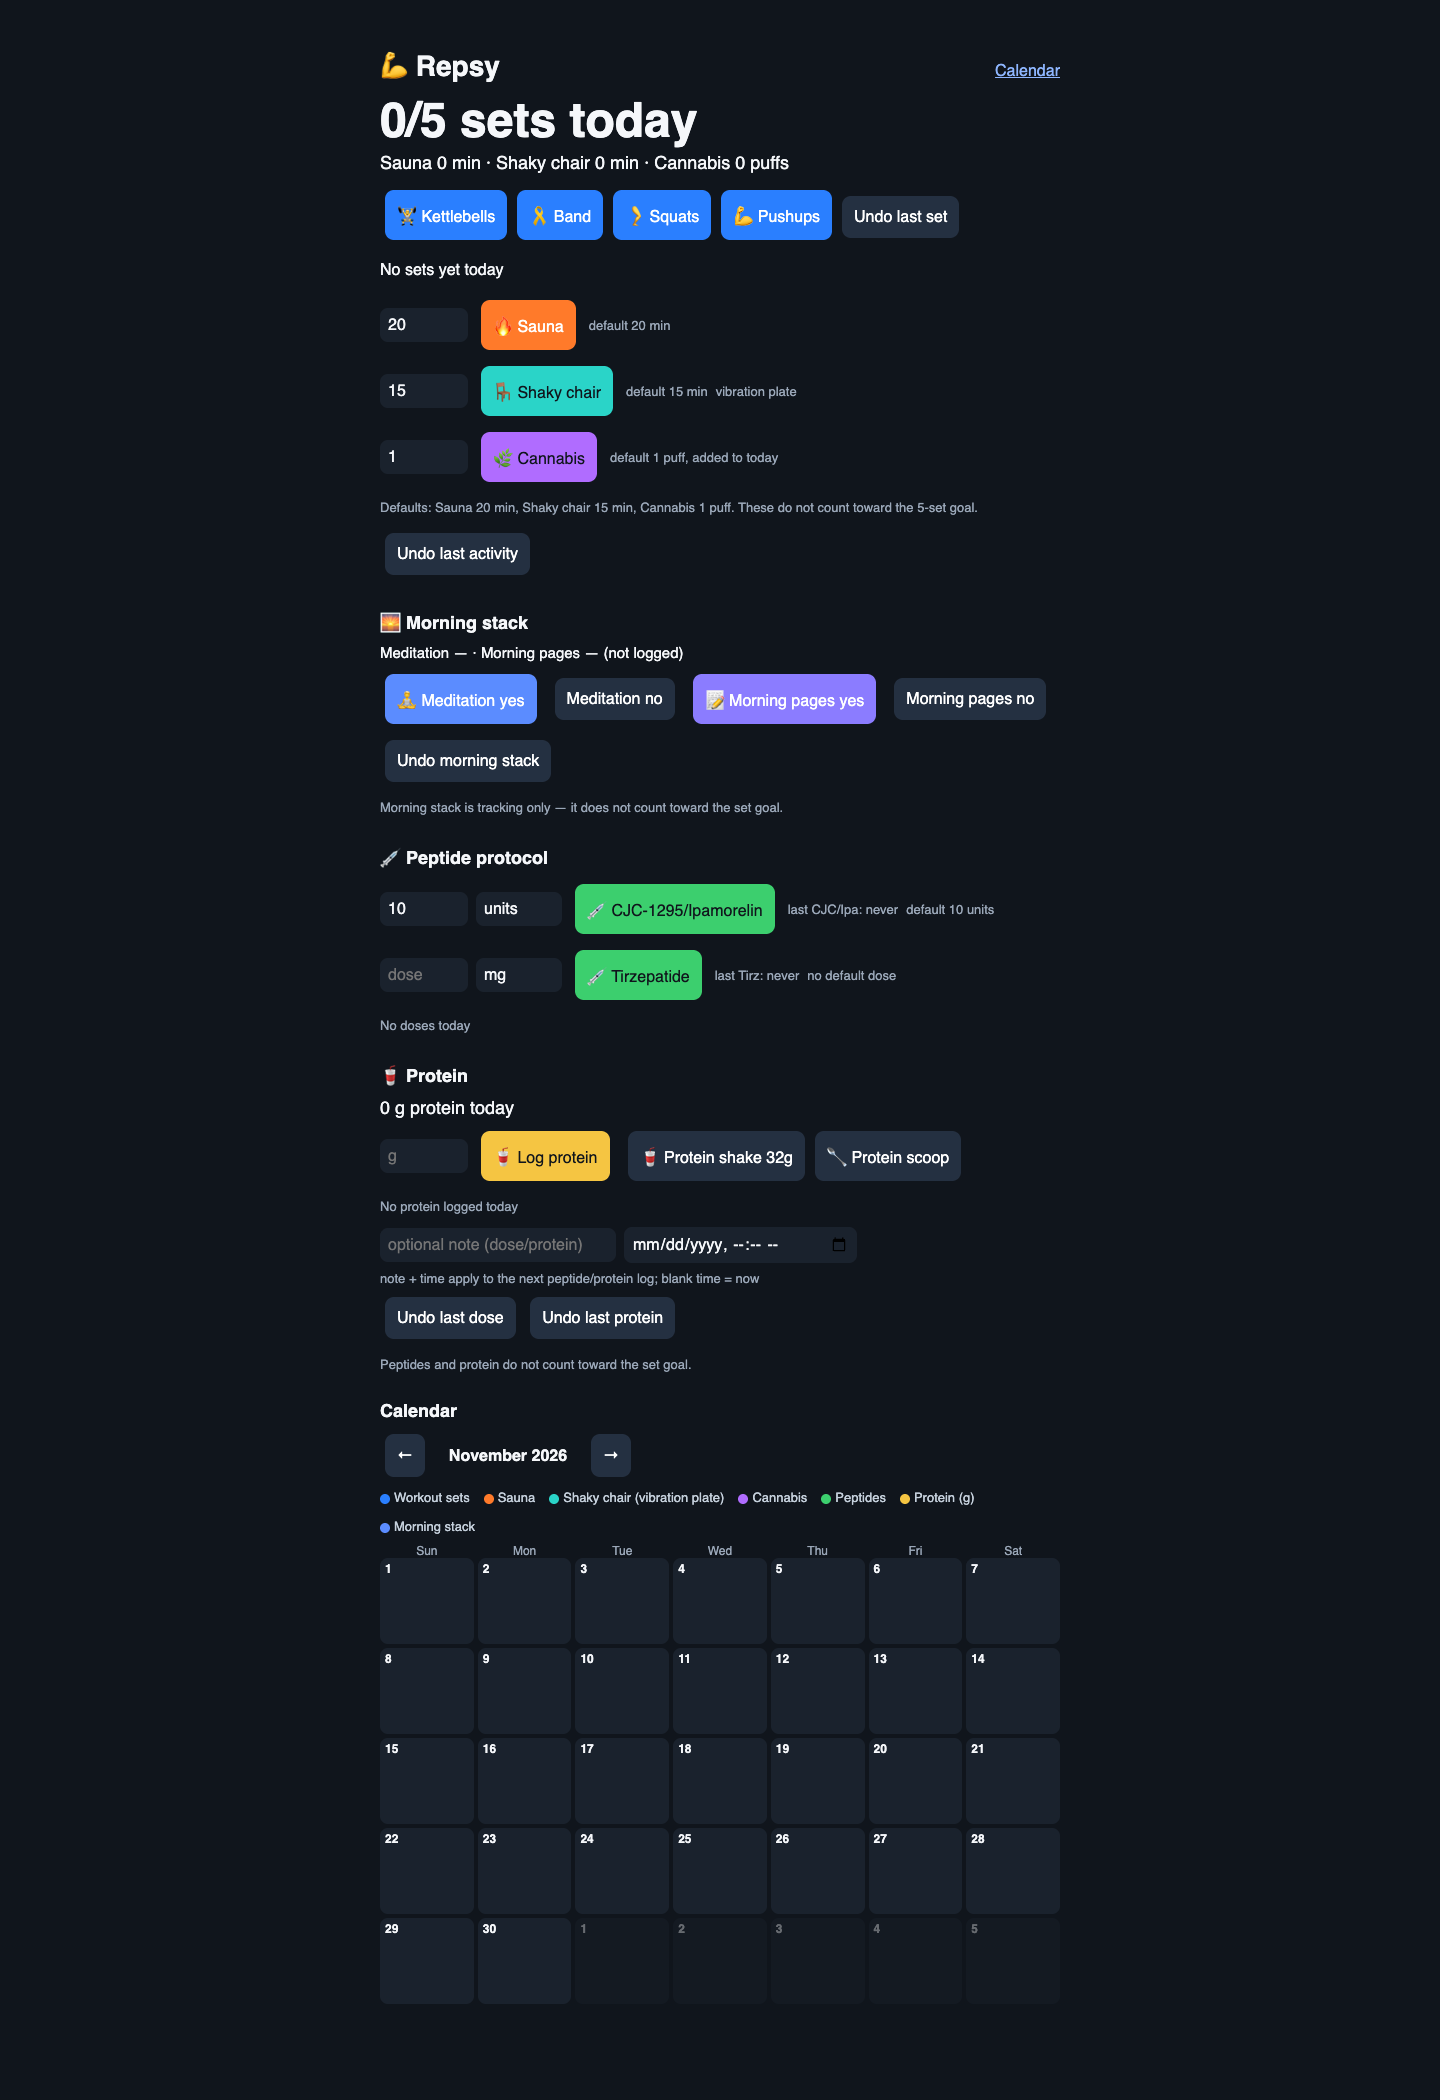
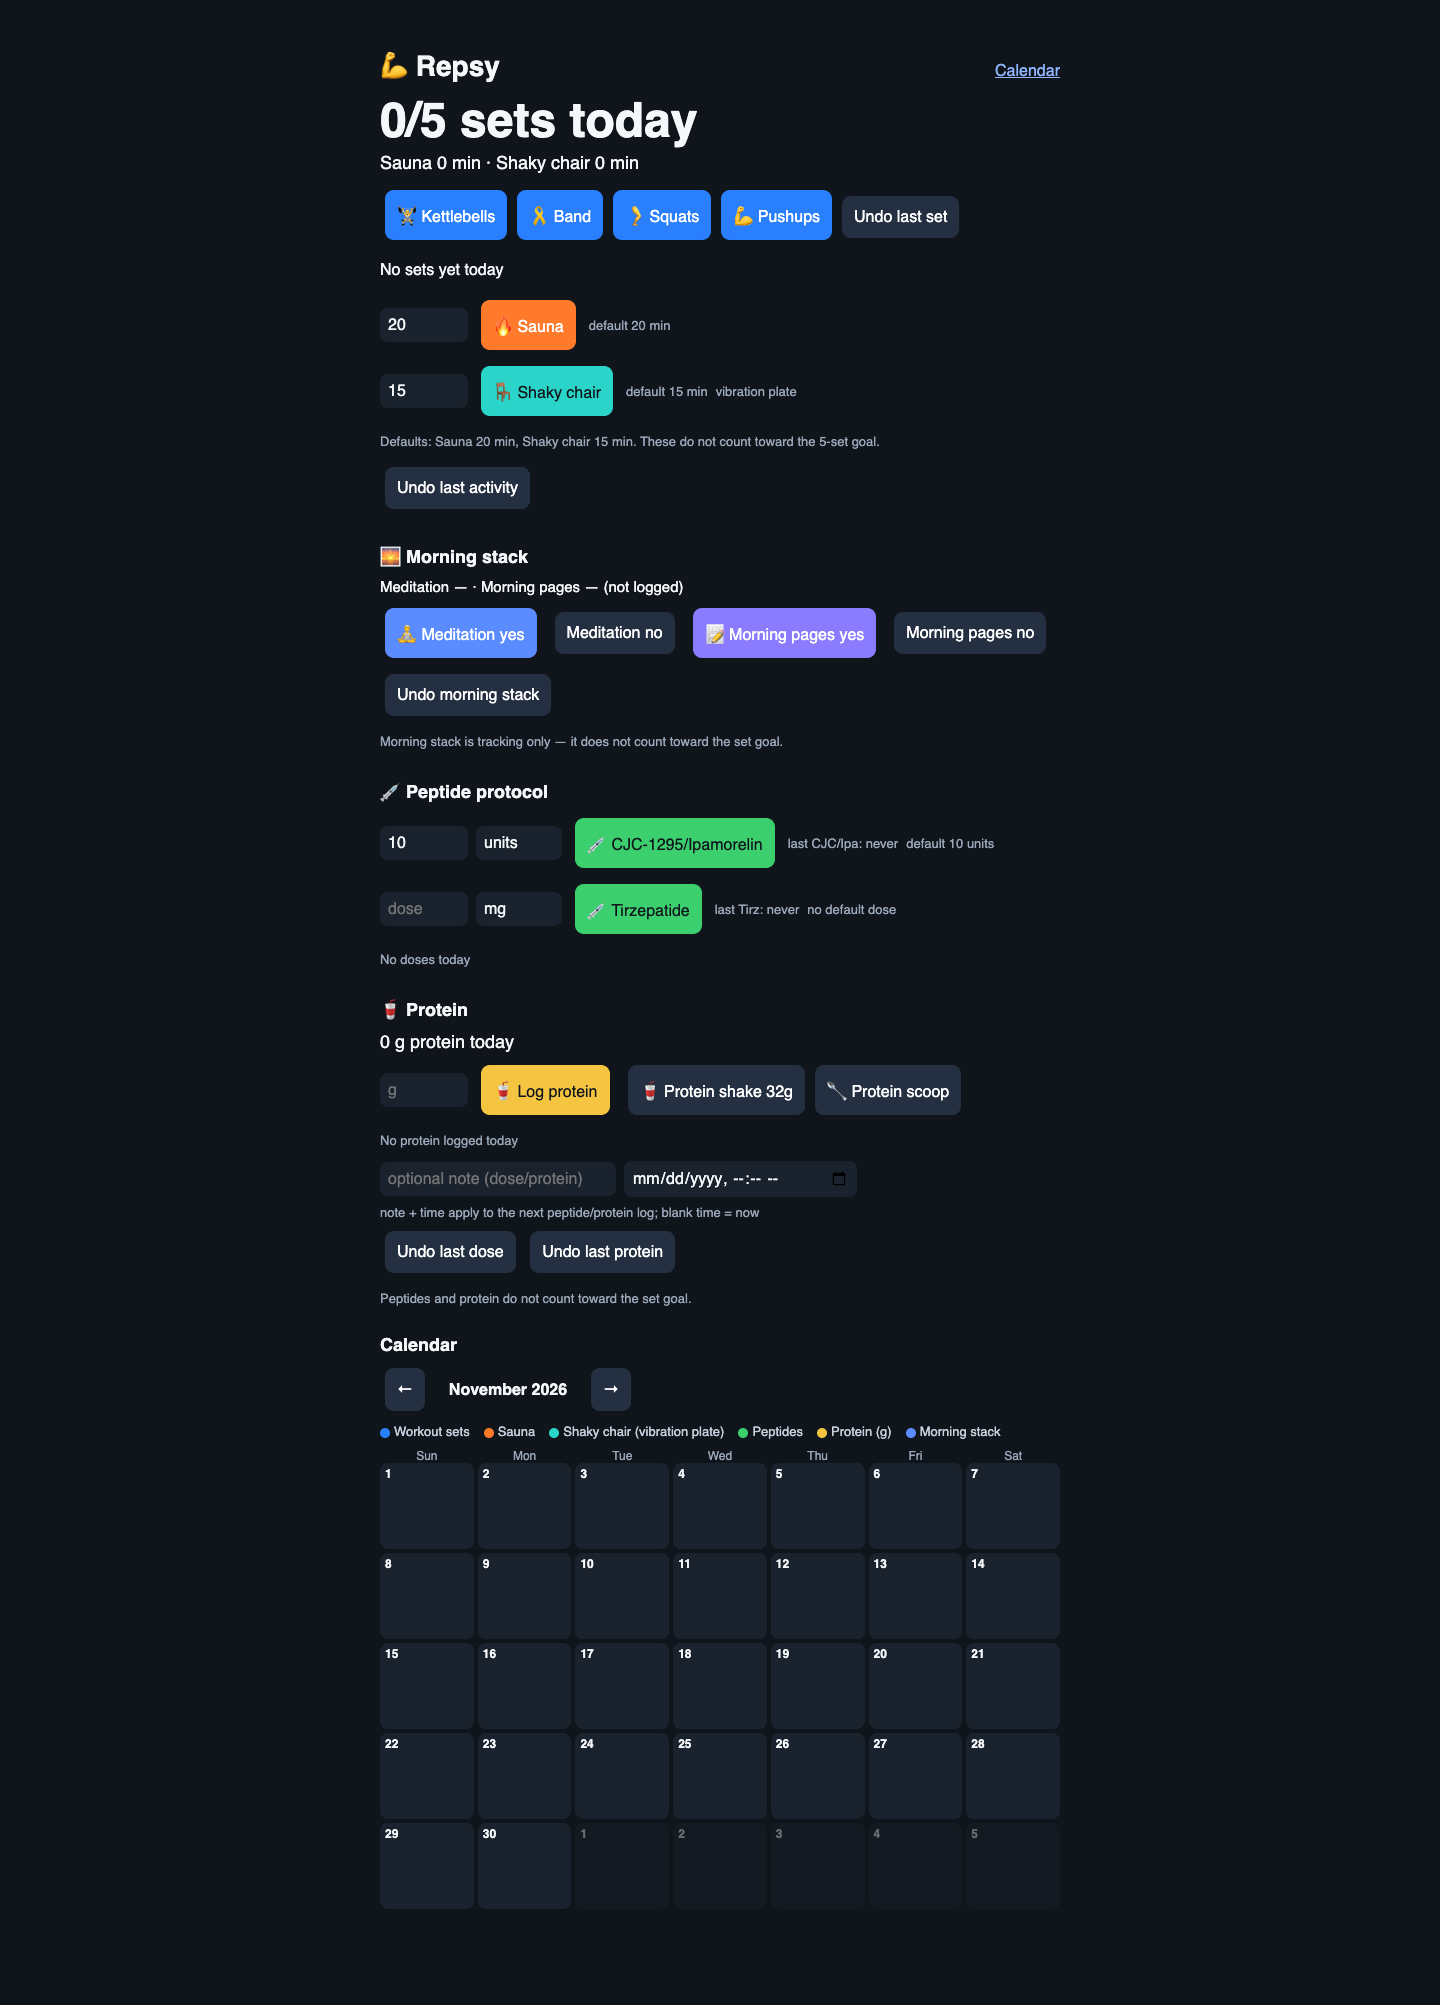
fix: remove cannabis tracking

diff --git a/templates/dashboard.html b/templates/dashboard.html
@@ -38,7 +38,7 @@ button.stack-on{outline:2px solid #f5f7fa;outline-offset:1px}
 </style>
 <div class="top"><h1>💪 Repsy</h1><a href="/calendar">Calendar</a></div>
 <div id="count">Loading…</div>
-<p id="today-activities">Sauna — · Shaky chair — · Cannabis —</p>
+<p id="today-activities">Sauna — · Shaky chair —</p>
 <div id="buttons"></div>
 <p id="history"></p>
 <div id="activity-buttons">
@@ -53,13 +53,8 @@ button.stack-on{outline:2px solid #f5f7fa;outline-offset:1px}
     <span class="hint" id="shaky-default">default 15 min</span>
     <span class="hint">vibration plate</span>
   </div>
-  <div class="row">
-    <input id="puffs-cannabis" type="number" min="1" max="100" value="1">
-    <button id="log-cannabis" style="background:#b06cff;color:#10151c">🌿 Cannabis</button>
-    <span class="hint" id="cannabis-default">default 1 puff, added to today</span>
-  </div>
 </div>
-<p class="hint" id="defaults-line">Defaults: Sauna 20 min, Shaky chair 15 min, Cannabis 1 puff. These do not count toward the 5-set goal.</p>
+<p class="hint" id="defaults-line">Defaults: Sauna 20 min, Shaky chair 15 min. These do not count toward the 5-set goal.</p>
 <button class="ghost" onclick="undoActivity()">Undo last activity</button>
 <h2 id="stack-h">🌅 Morning stack</h2>
 <div id="stack-status">Meditation — · Morning pages —</div>
@@ -112,14 +107,12 @@ function paint(d){
   const defs=d.defaults||{};
   const today=d.today_activities||{};
   $('count').textContent=`${d.count}/${d.goal} sets today`;
-  $('today-activities').textContent=`Sauna ${today.sauna_minutes||0} min · Shaky chair ${today.shaky_chair_minutes||0} min · Cannabis ${today.cannabis_puffs||0} puffs`;
+  $('today-activities').textContent=`Sauna ${today.sauna_minutes||0} min · Shaky chair ${today.shaky_chair_minutes||0} min`;
   $('sauna-default').textContent=`default ${defs.sauna_minutes} min`;
   $('shaky-default').textContent=`default ${defs.shaky_chair_minutes} min`;
-  $('cannabis-default').textContent=`default ${defs.cannabis_puffs} puff, added to today`;
-  $('defaults-line').textContent=`Defaults: Sauna ${defs.sauna_minutes} min, Shaky chair ${defs.shaky_chair_minutes} min, Cannabis ${defs.cannabis_puffs} puff. These do not count toward the 5-set goal.`;
+  $('defaults-line').textContent=`Defaults: Sauna ${defs.sauna_minutes} min, Shaky chair ${defs.shaky_chair_minutes} min. These do not count toward the 5-set goal.`;
   if(document.activeElement!==$('min-sauna')) $('min-sauna').value=defs.sauna_minutes;
   if(document.activeElement!==$('min-shaky_chair')) $('min-shaky_chair').value=defs.shaky_chair_minutes;
-  if(document.activeElement!==$('puffs-cannabis')) $('puffs-cannabis').value=defs.cannabis_puffs;
   $('buttons').innerHTML=d.exercises.map(e=>`<button onclick='log(${JSON.stringify(JSON.stringify({exercise:e.key,label:e.label,emoji:e.emoji}))})'>${e.emoji} ${e.label}</button>`).join('')+'<button class="ghost" onclick="undo()">Undo last set</button>';
   $('history').textContent=d.sets.map(s=>`${s.emoji} ${s.label}`.trim()).join(' · ')||'No sets yet today';
   const legend=$('legend');legend.replaceChildren();
@@ -235,7 +228,6 @@ async function logActivity(activity,extra){
 function numOrEmpty(id){const raw=$(id).value.trim();return raw===''?null:Number(raw)}
 $('log-sauna').onclick=()=>{const n=numOrEmpty('min-sauna');logActivity('sauna',n==null?{}:{minutes:n})};
 $('log-shaky').onclick=()=>{const n=numOrEmpty('min-shaky_chair');logActivity('shaky_chair',n==null?{}:{minutes:n})};
-$('log-cannabis').onclick=()=>{const n=numOrEmpty('puffs-cannabis');logActivity('cannabis',n==null?{}:{puffs:n})};
 async function undo(){await fetch('/undo',{method:'POST'});refresh()}
 async function undoActivity(){await fetch('/undo-activity',{method:'POST'});refresh()}
 function stackLabel(v){return v===true?'yes':(v===false?'no':'—')}

diff --git a/store.py b/store.py
@@ -36,20 +36,10 @@ ACTIVITY_TYPES = [
         "color": "#2ad4c8",
         "aka": "vibration plate",
     },
-    {
-        "key": "cannabis",
-        "label": "Cannabis",
-        "emoji": "🌿",
-        "kind": "puffs",
-        "unit": "puffs",
-        "default": 1,
-        "color": "#b06cff",
-    },
 ]
 DEFAULTS = {
     "sauna_minutes": 20,
     "shaky_chair_minutes": 15,
-    "cannabis_puffs": 1,
 }
 ACTIVITY_ALIASES = {
     "vibration": "shaky_chair",
@@ -164,10 +154,6 @@ def resolved_defaults(cfg: dict | None = None) -> dict:
         out["shaky_chair_minutes"] = int(stored["shaky_chair_minutes"])
     elif (by_key.get("shaky_chair") or {}).get("default") is not None:
         out["shaky_chair_minutes"] = int(by_key["shaky_chair"]["default"])
-    if stored.get("cannabis_puffs") is not None:
-        out["cannabis_puffs"] = int(stored["cannabis_puffs"])
-    elif (by_key.get("cannabis") or {}).get("default") is not None:
-        out["cannabis_puffs"] = int(by_key["cannabis"]["default"])
     return out
 
 
@@ -177,6 +163,8 @@ def activity_types(cfg: dict | None = None) -> list:
     builtin = {a["key"]: a for a in ACTIVITY_TYPES}
     merged = []
     for item in cfg.get("activities") or ACTIVITY_TYPES:
+        if item.get("key") == "cannabis":
+            continue
         base = dict(builtin.get(item.get("key"), {}))
         base.update({k: v for k, v in item.items() if v is not None})
         if base.get("kind") == "flag":
@@ -190,10 +178,6 @@ def activity_types(cfg: dict | None = None) -> list:
             base["default"] = defs["shaky_chair_minutes"]
             base["unit"] = "minutes"
             base["kind"] = "duration"
-        elif key == "cannabis":
-            base["default"] = defs["cannabis_puffs"]
-            base["unit"] = "puffs"
-            base["kind"] = "puffs"
         merged.append(base)
     return merged
 
@@ -314,7 +298,7 @@ def add_activity(key: str, minutes=None, puffs=None, note: str | None = None, at
         save_log(log)
         return log
     if _blank(puffs):
-        puffs = defs["cannabis_puffs"] if key == "cannabis" else (spec.get("default") or 1)
+        puffs = spec.get("default") or 1
     n = _puffs(puffs)
     today = when.date().isoformat()
     for existing in acts:
@@ -370,7 +354,6 @@ def totals_on(log: dict, day: date) -> dict:
     return {
         "sauna_minutes": sum(int(a.get("minutes") or 0) for a in acts if a.get("activity") == "sauna"),
         "shaky_chair_minutes": sum(int(a.get("minutes") or 0) for a in acts if a.get("activity") == "shaky_chair"),
-        "cannabis_puffs": sum(int(a.get("puffs") or 0) for a in acts if a.get("activity") == "cannabis"),
     }
 
 

diff --git a/app.py b/app.py
@@ -72,7 +72,7 @@ class RepsyApp(rumps.App):
 
     def _build_menu(self):
         self.status_item = rumps.MenuItem(f"Today: 0/{self.cfg['goal']}")
-        self.activity_item = rumps.MenuItem("Sauna — · Shaky chair — · Cannabis —")
+        self.activity_item = rumps.MenuItem("Sauna — · Shaky chair —")
         self.stack_item = rumps.MenuItem("🌅 Morning stack: —")
         self.peptide_item = rumps.MenuItem("💉 Last dose: —")
         self.protein_item = rumps.MenuItem("🥤 Protein today: 0g")
@@ -290,8 +290,7 @@ class RepsyApp(rumps.App):
         totals = store.totals_on(log, date.today())
         self.activity_item.title = (
             f"🔥 Sauna {totals['sauna_minutes']}m · "
-            f"🪑 Shaky chair {totals['shaky_chair_minutes']}m · "
-            f"🌿 Cannabis {totals['cannabis_puffs']} puffs"
+            f"🪑 Shaky chair {totals['shaky_chair_minutes']}m"
         )
         try:
             last = store.last_doses(log, self.cfg)

diff --git a/tests/test_repsy.py b/tests/test_repsy.py
@@ -33,8 +33,10 @@ def test_web_api_logs_and_rejects_bad_activity(isolated_data):
     client = server.create_app().test_client()
 
     response = client.post("/log", json={"exercise": "pushups", "label": "Pushups", "emoji": "💪"})
+    payload = response.get_json()
     assert response.status_code == 200
-    assert response.get_json()["count"] == 1
+    assert payload["count"] == 1
+    assert {item["key"] for item in payload["activity_types"]} == {"sauna", "shaky_chair"}
 
     response = client.post("/activity", json={"activity": "sauna", "minutes": 0})
     assert response.status_code == 400
